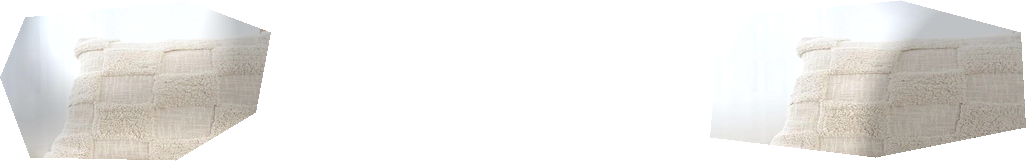
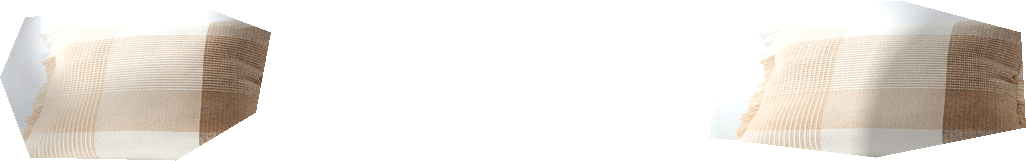
Put verified Kmart rug photos into the room.
Olive and bloom now uses the Indi jute rug and the sage flecked round rug, both with images from assets.kmart.com.au. The $42 round jute no longer appears in Kmart search, and the beige check cover is the current $7 listing.

Changed region(s): [[0.7173, 0.1242, 1.0, 0.9627], [0.0, 0.1242, 0.2807, 0.9938]]

diff --git a/scripts/build_overlays.py b/scripts/build_overlays.py
@@ -80,7 +80,7 @@ def download_image(product: dict) -> Image.Image | None:
             path = ROOT / product["imageFile"]
             path.parent.mkdir(parents=True, exist_ok=True)
             path.write_bytes(data)
-            image = Image.open(path).convert("RGB")
+            image = crop_extend_bars(Image.open(path).convert("RGB"))
             image.thumbnail((1200, 1200))
             image.save(path, quality=82)
             print("  image", product["id"], image.size)
@@ -89,6 +89,25 @@ def download_image(product: dict) -> Image.Image | None:
             last = error
     print("  image fail", product["id"], last)
     return None
+
+
+def crop_extend_bars(image: Image.Image) -> Image.Image:
+    """Drop the flat green bands Kmart's extend transform adds above and below a photo."""
+    array = np.array(image.convert("RGB"))
+    bar = np.array([71, 112, 76])
+
+    def is_bar(row: np.ndarray) -> bool:
+        return float(np.abs(row.astype(int) - bar).sum(axis=1).mean()) < 12
+
+    top = 0
+    while top < array.shape[0] - 10 and is_bar(array[top]):
+        top += 1
+    bottom = array.shape[0]
+    while bottom > top + 10 and is_bar(array[bottom - 1]):
+        bottom -= 1
+    if top == 0 and bottom == array.shape[0]:
+        return image
+    return image.crop((0, top, image.width, bottom))
 
 
 def polygons_for(region: dict) -> list:

diff --git a/README.md b/README.md
@@ -72,8 +72,8 @@ Checked 29 Oct 2026.
 - Bed Bath N' Table pages returned HTTP 200. Price and image come from JSON-LD on the page. `build_overlays.py` asks the live page again before saving a BBNT image.
 - Temple & Webster pages were readable, including JSON-LD, but a direct HTTP request from this environment returned 403. Images were downloaded from `img.zcdn.com.au`.
 - Adairs pages were readable, but `adairs.com.au` returned 403. Product images were fetched through `images.weserv.nl` because the Adairs host blocked this environment.
-- Kmart pages returned 403 or 429 from this environment. The beige check cushion is included because the product page content showed the name and the $7 price, and the image URL on `assets.kmart.com.au` returned 200. Two Kmart rugs (Indi, $85, and the round jute, $42) are in the Olive and bloom style with no image. Their pages were seen with those prices, and the photos could not be verified, so they are not placed in the room.
-- Guessed Kmart image URLs were not used. A guessed URL returned a fallback file rather than the product.
+- Kmart product pages returned 403 or 429 from this environment. The image host `assets.kmart.com.au` returned HTTP 200, and the live catalogue search (`ac.cnstrc.com`, the key the Kmart site uses) returned the name, price and image URL. Olive and bloom uses the Indi jute rug ($85, 235 x 160cm) and the Flecked sage round rug ($69, 180cm). Calm Scandi’s Good cushion is the 50cm woven check cover in beige ($7). An earlier round jute at $42 (SKU 42375609) and an earlier check cover (SKU 43475735) no longer appear in that search.
+- Guessed Kmart image URLs were not used. A guessed URL returned a fallback file rather than the product. The image ids here come from the catalogue search, and each file was opened and checked.
 
 ## Deploy
 
